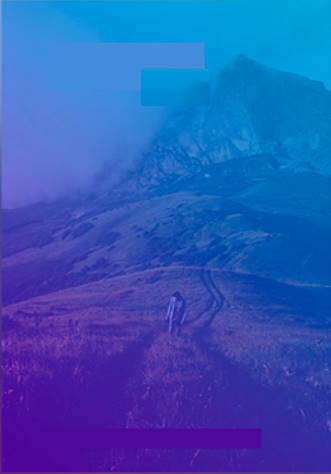
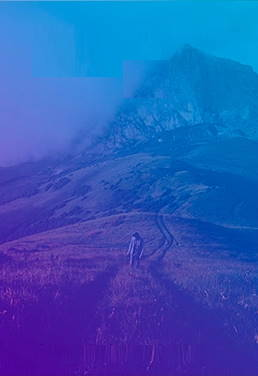
Background images and style

diff --git a/main.css b/main.css
@@ -1,105 +1,132 @@
 body,
 body * {
-margin: 0;
-padding: 0;
-vertical-align: top;
-box-sizing: border-box;
-font-family: 'Gill Sans', 'Gill Sans MT', Calibri, 'Trebuchet MS', sans-serif;
+    margin: 0;
+    padding: 0;
+    vertical-align: top;
+    box-sizing: border-box;
+    font-family: 'Gill Sans', 'Gill Sans MT', Calibri, 'Trebuchet MS', sans-serif;
 }
+
 
 body {
-    background-color: #00b3d4; 
+    background-color: #00B3D4;
 }
-.container {
-    display: inline-block;
-    width: 800px;
-    margin-top: 100px;
-    margin-left: calc((100% - 600px) / 2);
-
-}
+    .background {
+        width: 100%;
+        height: 100vh;
+        background-image: url(./kalnas.jpg);
+        background-repeat: no-repeat;
+        background-size: cover;
+        background-position: center;
+        filter: blur(10px);
+    }
+    .container {
+        display: inline-block;
+        width: 800px;
+        position: absolute;
+        top: 50%;
+        left: 50%;
+        transform: translate(-50%, -50%);
+    }
         .left-column {
             display: inline-block;
             width: 40%;
-            float: left;
-            height: 440px;
             padding: 40px;
-            background-color: #3f36a7;
+            background-color: #3F36A7;
             background-image: url(./kalnas.jpg);
             background-repeat: no-repeat;
             background-size: cover;
             background-position: center;
             color: #fff;
+            position: absolute;
+            top: 30px;
+            bottom: 30px;
         }
-       .title {
+            .title {
 
-       } 
-       .footer {
-
-       }
-            .link {
-                color: #fff;
             }
-            .ambersand {
-                
+            .footer {
+                position: absolute;
+                bottom: 20px;
+                left: 40px;
+                right: 40px;
             }
+                .link {
+                    color: #fff;
+                }
+                .ampersand {
+                    
+                }
 
         .right-column {
             display: inline-block;
             width: 60%;
-            float: left;
+            float: right;
             padding: 60px;
-            background-color: white;
+            background-color: #fff;
+            position: relative;
         }
-
-                .close {
+            .close {
+                display: inline-block;
+                width: 60px;
+                height: 60px;
+                line-height: 56px;
+                text-align: center;
+                font-size: 30px;
+                cursor: pointer;
+                position: absolute;
+                top: 0;
+                right: 0;
+            }
+            .form {
+                display: inline-block;
+                width: 100%;
+            }
+                .form-row {
                     display: inline-block;
+                    width: 100%;
+                    margin-bottom: 30px;
                 }
-                    .form {
+                    .form-row:last-of-type {
+                        margin-bottom: 0;
+                    }
+                    label {
                         display: inline-block;
                         width: 100%;
+                        margin-bottom: 5px;
+                        font-size: 16px;
+                        text-transform: uppercase;
                     }
-                        .form.row {
-                            display: inline-block;
-                            width: 100%;
-                            margin-bottom: 30px;
-                        }
-                            .form.row:last-of-type {
-                                margin-bottom: 0;
-                             }
-                            
-                        
-                        label {
-                            display: inline-block;
-                            width: 100%;
-                            margin-bottom: 50px;
-                            font-size: 13px;
-                            text-transform: uppercase;
-                        }
-                        input {
-                            display: inline-block;
-                            width: 100%;
-                            border: none;
-                            border-bottom: 1px solid #ccc;
-                            font-size: 12px;
-                        }
-                            .btn {
-                                display: inline-block;
-                                background-color: #3f36a7;
-                                color: #fff;
-                                padding: 10px;
-                                padding-left: 50px;
-                                padding-right: 50px;
-                                line-height: 20px;
-                                font-weight: bold;
-                                border-radius: 20px;
-                            }
-                            .or {
-                                display: inline-block;
-                                line-height: 10px;
-                            }
-                            .blue-link {
-                                display: inline-block;
-                                color: #3f36a7;
-                                text-decoration: none;
-                                line-height: 40px;
-                            }
+                    input {
+                        display: inline-block;
+                        width: 100%;
+                        border: none;
+                        border-bottom: 1px solid #ccc;
+                        font-size: 20px;
+                    }
+                    .btn {
+                        display: inline-block;
+                        background-color: #3F36A7;
+                        color: #fff;
+                        padding: 10px;
+                        line-height: 20px;
+                        padding-left: 50px;
+                        padding-right: 50px;
+                        border-radius: 20px;
+                        font-weight: bold;
+                    }
+                    .or {
+                        display: inline-block;
+                        padding: 20px;
+                        padding-top: 10px;
+                        padding-bottom: 10px;
+                        line-height: 20px;
+                    }
+                    .blue-link {
+                        display: inline-block;
+                        color: #3F36A7;
+                        text-decoration: none;
+                        padding-top: 10px;
+                        padding-bottom: 10px;
+                        line-height: 20px;
+                    }

diff --git a/forgot-password/index.html b/forgot-password/index.html
@@ -4,15 +4,15 @@
 <head>
     <meta charset="UTF-8">
     <meta name="viewport" content="width=device-width, initial-scale=1.0">
-    <title>Sign up</title>
-    <link rel="stylesheet" href="./main.css">
+    <title>Forgot password</title>
+    <link rel="stylesheet" href="../main.css">
 </head>
 
 <body>
-    <img class="background" src="./kalnas.jpg" alt="Background image">
+    <img class="background" src="../kalnas.jpg" alt="Background image">
     <main class="container">
         <div class="left-column">
-            <h1 class="title">Sign up</h1>
+            <h1 class="title">Forgot password</h1>
             <footer class="footer">
                 <a href="#" class="link">Privacy policy</a>
                 <span class="ampersand">&</span>
@@ -23,25 +23,13 @@
             <div class="close">x</div>
             <form class="form">
                 <div class="form-row">
-                    <label for="username">Username</label>
-                    <input id="username" type="text" placeholder="Enter your username">
-                </div>
-                <div class="form-row">
                     <label for="email">Email</label>
                     <input id="email" type="text" placeholder="Enter your email">
                 </div>
                 <div class="form-row">
-                    <label for="pass">Password</label>
-                    <input id="pass" type="password" placeholder="password">
-                </div>
-                <div class="form-row">
-                    <label for="repass">Repeat password</label>
-                    <input id="repass" type="password" placeholder="password">
-                </div>
-                <div class="form-row">
                     <div class="btn">Get started</div>
                     <span class="or">or</span>
-                    <a href="./sign-in/" class="blue-link">Sign in</a>
+                    <a href="/" class="blue-link">Sign up</a>
                 </div>
             </form>
         </div>

diff --git a/sign-in/index.html b/sign-in/index.html
@@ -4,15 +4,15 @@
 <head>
     <meta charset="UTF-8">
     <meta name="viewport" content="width=device-width, initial-scale=1.0">
-    <title>Sign up</title>
-    <link rel="stylesheet" href="./main.css">
+    <title>Sign in</title>
+    <link rel="stylesheet" href="../main.css">
 </head>
 
 <body>
-    <img class="background" src="./kalnas.jpg" alt="Background image">
+    <img class="background" src="../kalnas.jpg" alt="Background image">
     <main class="container">
         <div class="left-column">
-            <h1 class="title">Sign up</h1>
+            <h1 class="title">Sign in</h1>
             <footer class="footer">
                 <a href="#" class="link">Privacy policy</a>
                 <span class="ampersand">&</span>
@@ -27,21 +27,13 @@
                     <input id="username" type="text" placeholder="Enter your username">
                 </div>
                 <div class="form-row">
-                    <label for="email">Email</label>
-                    <input id="email" type="text" placeholder="Enter your email">
-                </div>
-                <div class="form-row">
                     <label for="pass">Password</label>
                     <input id="pass" type="password" placeholder="password">
                 </div>
                 <div class="form-row">
-                    <label for="repass">Repeat password</label>
-                    <input id="repass" type="password" placeholder="password">
-                </div>
-                <div class="form-row">
                     <div class="btn">Get started</div>
                     <span class="or">or</span>
-                    <a href="./sign-in/" class="blue-link">Sign in</a>
+                    <a href="../forgot-password/" class="blue-link">Forgot password?</a>
                 </div>
             </form>
         </div>
